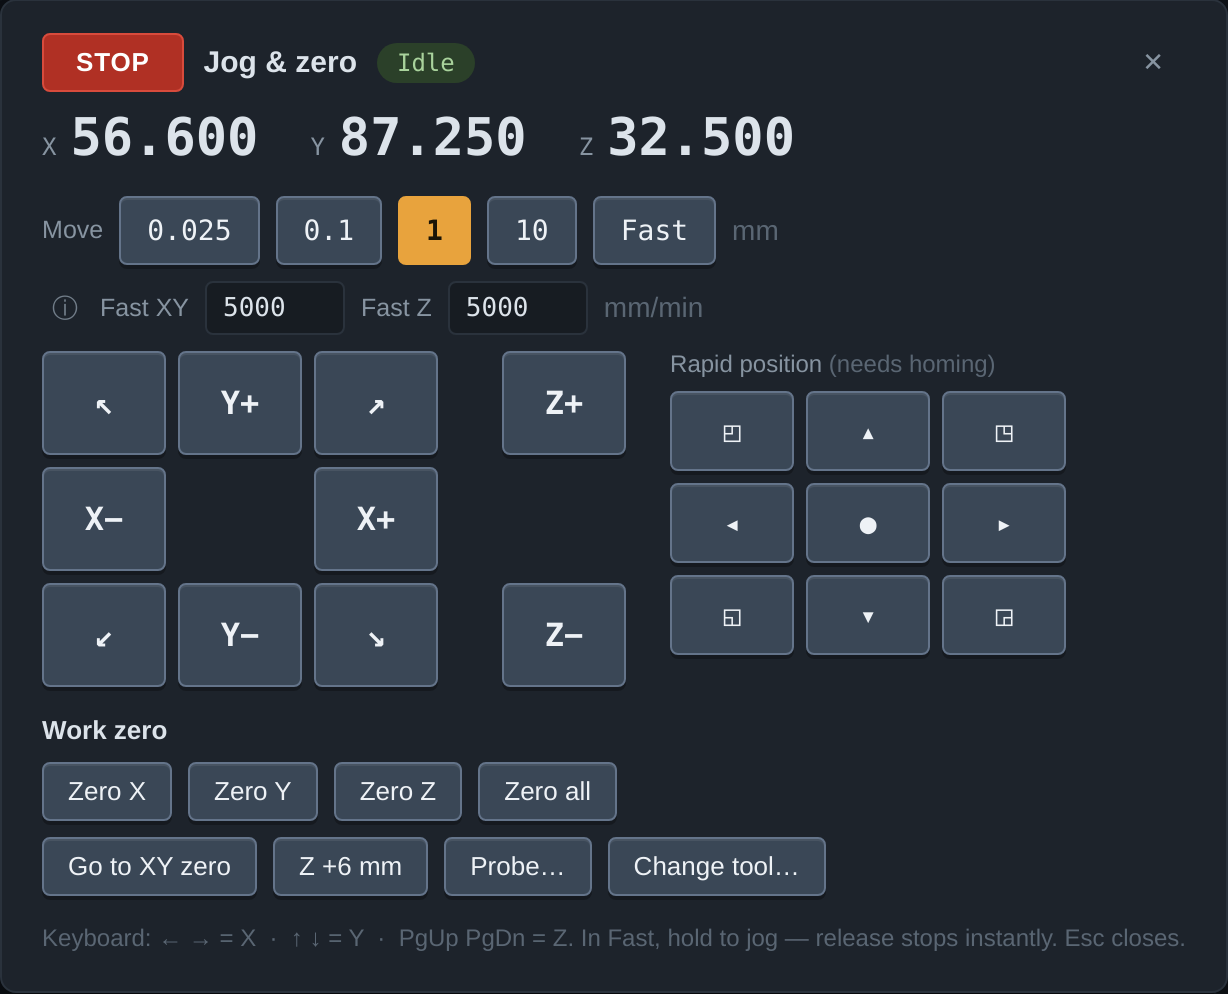
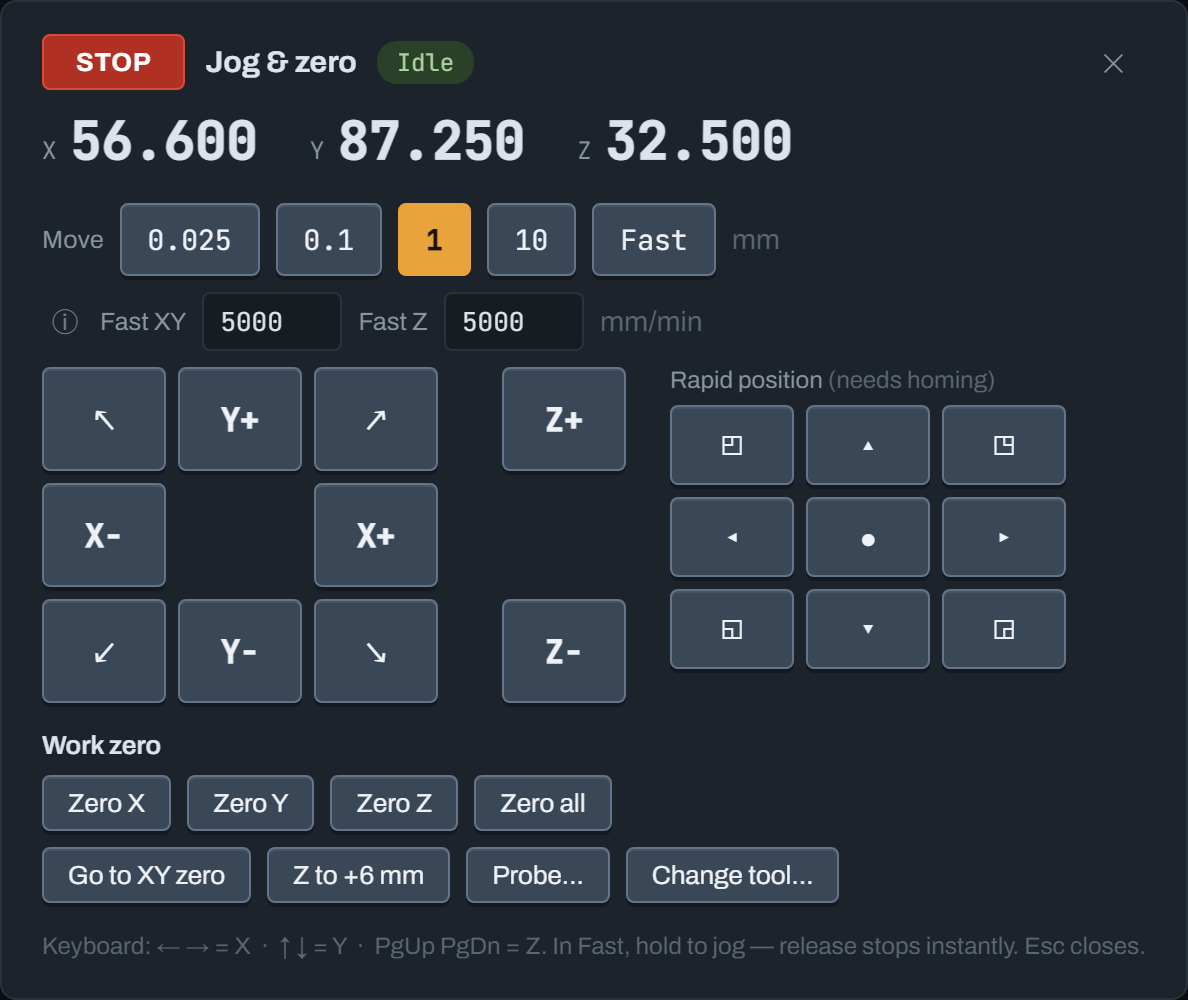
Z to +6 mm goes to 6 mm above Z zero, up or down, as in Carbide Motion (Control 0.39.0)

diff --git a/index.html b/index.html
@@ -618,7 +618,7 @@
       </div>
       <div class="mRow">
         <button id="gotoZero" title="Raises Z to 5 mm below the top of travel first (machine must be homed)">Go to XY zero</button>
-        <button id="jogZ6" title="Lift Z 6 mm from where it is now, as in Carbide Motion. Stops short at the top of travel.">Z +6 mm</button>
+        <button id="jogZ6" title="Move Z to 6 mm above your Z zero, up or down, as in Carbide Motion, so you can check the zero with a 6 mm block or a rule. X and Y stay put. Needs the machine homed.">Z to +6 mm</button>
         <button id="jogProbe" title="Jog over the plate, then probe — opens the BitZero panel">Probe…</button>
         <button id="jogTool" title="Lift, stop the spindle and go to the tool-change position, then measure the new bit on the BitSetter">Change tool…</button>
       </div>
@@ -980,7 +980,7 @@ document.addEventListener('DOMContentLoaded', function(){
 // 454 Control's version: shown in the header and the About window, and in the tooltip on its name.
 // The G-code parser, which used to live here, is packages/gcode/src/parser.cjs, shared with the
 // @454/gcode package.
-var CONTROL_VERSION = '0.38.1';
+var CONTROL_VERSION = '0.39.0';
 /* ============================================================
    THE G-CODE PARSER: the GRBL / Carbide Motion dialect
    Produces: segments (tessellated micro-moves), issues, tools
@@ -3036,17 +3036,26 @@ function jogCmd(p, dist, feed){
   if (p[2]) cmd += 'Z' + (p[2] * dist).toFixed(3);
   return cmd + 'F' + Math.round(feed);
 }
-// Lift 6 mm from wherever Z is, as a jog: cancellable like any other, and cut short if the top of
-// travel is closer than that, so it can't run into the limit switch.
+// Z to 6 mm above the work's Z zero (the top of the material, or wherever Z was zeroed), as in Carbide Motion: X and Y
+// stay, and Z goes up or down to there, so the zero can be checked with a 6 mm block or a rule. Clint, 2026-10-23: it
+// lifted 6 mm from where Z was ("the correct thing is to go down to the current Z for the material, not the machine
+// travel"). A jog, in the work's coordinates (the tool length offset included), so Stop and soft limits apply. Needs a
+// homed machine: until then the zero can't be trusted. If 6 mm above zero is past the top of travel, as near as that.
+var ZCHECK_MM = 6;
 function jogLiftZ6(){
   if (!requireIdle('lift')) return;
-  // The room above is measured from where Z is now. The clamp keeps the position a held jog started from; used as it
-  // was, it said "already at the top" and nothing moved (Clint, 2026-10-22: "the Z + 6mm button does nothing").
-  if (!JOGC.active) JOGC.pred = {x: SERIAL.mpos.x, y: SERIAL.mpos.y, z: SERIAL.mpos.z};
-  var d = clampJogDist([0, 0, 1], 6);
-  if (!(d > 0.05)){ logC('sys', 'Z is already at the top of its travel'); return; }
-  sendLine(jogCmd([0, 0, 1], d, PROFILE.jog.fastZ));
-  if (d < 5.95) logC('sys', 'Z lifted ' + d.toFixed(1) + ' mm: that\u2019s as far as the top of travel allows');
+  if (!SERIAL.homedSeen){ logC('err', 'Z to +6 mm needs the machine homed first, so your Z zero can be trusted. Home, then try again.'); return; }
+  var wz = ZCHECK_MM, rg = axisRange('z');
+  if (rg){
+    var topW = (rg.max - 0.5) - SERIAL.wco.z;                   // the top of travel, less 0.5 mm, above work zero
+    if (wz > topW){
+      if (!(topW > 0)){ logC('err', 'Z zero is at the top of travel or above it, so there’s nowhere 6 mm above it to go. Set Z zero again.'); return; }
+      wz = topW;
+    }
+  }
+  sendLine('$J=G21G90Z' + wz.toFixed(3) + 'F' + Math.round(PROFILE.jog.fastZ));
+  if (wz < ZCHECK_MM - 0.005) logC('sys', 'Z zero is only ' + (wz + 0.5).toFixed(1) + ' mm below the top of travel: Z went to ' + wz.toFixed(1) + ' mm above zero, as high as it can.');
+  else logC('sys', 'Z going to 6 mm above Z zero: check it with a 6 mm block or a rule.');
 }
 // one step of the size chosen in the jog panel, or of inc (the game controller's, when the panel says Fast)
 function jogStepOnce(p, inc){

diff --git a/apps/control/src/js/jogging.js b/apps/control/src/js/jogging.js
@@ -7,17 +7,26 @@ function jogCmd(p, dist, feed){
   if (p[2]) cmd += 'Z' + (p[2] * dist).toFixed(3);
   return cmd + 'F' + Math.round(feed);
 }
-// Lift 6 mm from wherever Z is, as a jog: cancellable like any other, and cut short if the top of
-// travel is closer than that, so it can't run into the limit switch.
+// Z to 6 mm above the work's Z zero (the top of the material, or wherever Z was zeroed), as in Carbide Motion: X and Y
+// stay, and Z goes up or down to there, so the zero can be checked with a 6 mm block or a rule. Clint, 2026-10-23: it
+// lifted 6 mm from where Z was ("the correct thing is to go down to the current Z for the material, not the machine
+// travel"). A jog, in the work's coordinates (the tool length offset included), so Stop and soft limits apply. Needs a
+// homed machine: until then the zero can't be trusted. If 6 mm above zero is past the top of travel, as near as that.
+var ZCHECK_MM = 6;
 function jogLiftZ6(){
   if (!requireIdle('lift')) return;
-  // The room above is measured from where Z is now. The clamp keeps the position a held jog started from; used as it
-  // was, it said "already at the top" and nothing moved (Clint, 2026-10-22: "the Z + 6mm button does nothing").
-  if (!JOGC.active) JOGC.pred = {x: SERIAL.mpos.x, y: SERIAL.mpos.y, z: SERIAL.mpos.z};
-  var d = clampJogDist([0, 0, 1], 6);
-  if (!(d > 0.05)){ logC('sys', 'Z is already at the top of its travel'); return; }
-  sendLine(jogCmd([0, 0, 1], d, PROFILE.jog.fastZ));
-  if (d < 5.95) logC('sys', 'Z lifted ' + d.toFixed(1) + ' mm: that\u2019s as far as the top of travel allows');
+  if (!SERIAL.homedSeen){ logC('err', 'Z to +6 mm needs the machine homed first, so your Z zero can be trusted. Home, then try again.'); return; }
+  var wz = ZCHECK_MM, rg = axisRange('z');
+  if (rg){
+    var topW = (rg.max - 0.5) - SERIAL.wco.z;                   // the top of travel, less 0.5 mm, above work zero
+    if (wz > topW){
+      if (!(topW > 0)){ logC('err', 'Z zero is at the top of travel or above it, so there’s nowhere 6 mm above it to go. Set Z zero again.'); return; }
+      wz = topW;
+    }
+  }
+  sendLine('$J=G21G90Z' + wz.toFixed(3) + 'F' + Math.round(PROFILE.jog.fastZ));
+  if (wz < ZCHECK_MM - 0.005) logC('sys', 'Z zero is only ' + (wz + 0.5).toFixed(1) + ' mm below the top of travel: Z went to ' + wz.toFixed(1) + ' mm above zero, as high as it can.');
+  else logC('sys', 'Z going to 6 mm above Z zero: check it with a 6 mm block or a rule.');
 }
 // one step of the size chosen in the jog panel, or of inc (the game controller's, when the panel says Fast)
 function jogStepOnce(p, inc){

diff --git a/apps/control/src/control.html b/apps/control/src/control.html
@@ -272,7 +272,7 @@
       </div>
       <div class="mRow">
         <button id="gotoZero" title="Raises Z to 5 mm below the top of travel first (machine must be homed)">Go to XY zero</button>
-        <button id="jogZ6" title="Lift Z 6 mm from where it is now, as in Carbide Motion. Stops short at the top of travel.">Z +6 mm</button>
+        <button id="jogZ6" title="Move Z to 6 mm above your Z zero, up or down, as in Carbide Motion, so you can check the zero with a 6 mm block or a rule. X and Y stay put. Needs the machine homed.">Z to +6 mm</button>
         <button id="jogProbe" title="Jog over the plate, then probe — opens the BitZero panel">Probe…</button>
         <button id="jogTool" title="Lift, stop the spindle and go to the tool-change position, then measure the new bit on the BitSetter">Change tool…</button>
       </div>

diff --git a/apps/control/src/js/version.js b/apps/control/src/js/version.js
@@ -2,4 +2,4 @@
 // 454 Control's version: shown in the header and the About window, and in the tooltip on its name.
 // The G-code parser, which used to live here, is packages/gcode/src/parser.cjs, shared with the
 // @454/gcode package.
-var CONTROL_VERSION = '0.38.1';
+var CONTROL_VERSION = '0.39.0';

diff --git a/CHANGELOG.md b/CHANGELOG.md
@@ -747,6 +747,17 @@ into the PC; and with a long list, Cancel scrolled away.
 
 ## 454 Control
 
+### 0.39.0 — Z to +6 mm goes to 6 mm above Z zero **(machine)**
+Clint, 2026-10-23, on the Shapeoko 5 Pro: from near the top it lifted 4.5 mm. “The correct thing is to go down to the
+current Z for the material, not the machine travel. This is so the Z is at a measurable spot to make sure its correct.”
+- **Z +6 mm is now Z to +6 mm:** Z goes to 6 mm above the work’s Z zero, up or down, as in Carbide Motion, so the zero
+  can be checked with a 6 mm block or a rule. X and Y stay. It’s a jog in the work’s coordinates (the tool length
+  offset included), so Stop works and soft limits apply. It lifted 6 mm from where Z was, cut short at the top.
+- Refused until the machine has been homed this session (until then the zero can’t be trusted), and with Z zero at
+  or above the top of travel. A Z zero closer than 6 mm to the top: as high as travel allows, and it says so.
+- jog-lift.test.mjs rewritten, 5 tests, the last on the simulated GRBL machine (from near the top and from below, Z
+  ends at work Z 6, X and Y untouched); broken on purpose 4 ways, all caught. Not yet tried on a real machine.
+
 ### 0.38.1 — left-out toolpaths show faint in the preview
 Untick a toolpath on the Toolpaths tab and its moves are drawn faint grey in the 3D view, and stay so as the preview
 plays, so what will and won't be cut shows at a glance (`jobSkipMark` marks each move; `segColor` colours it).
